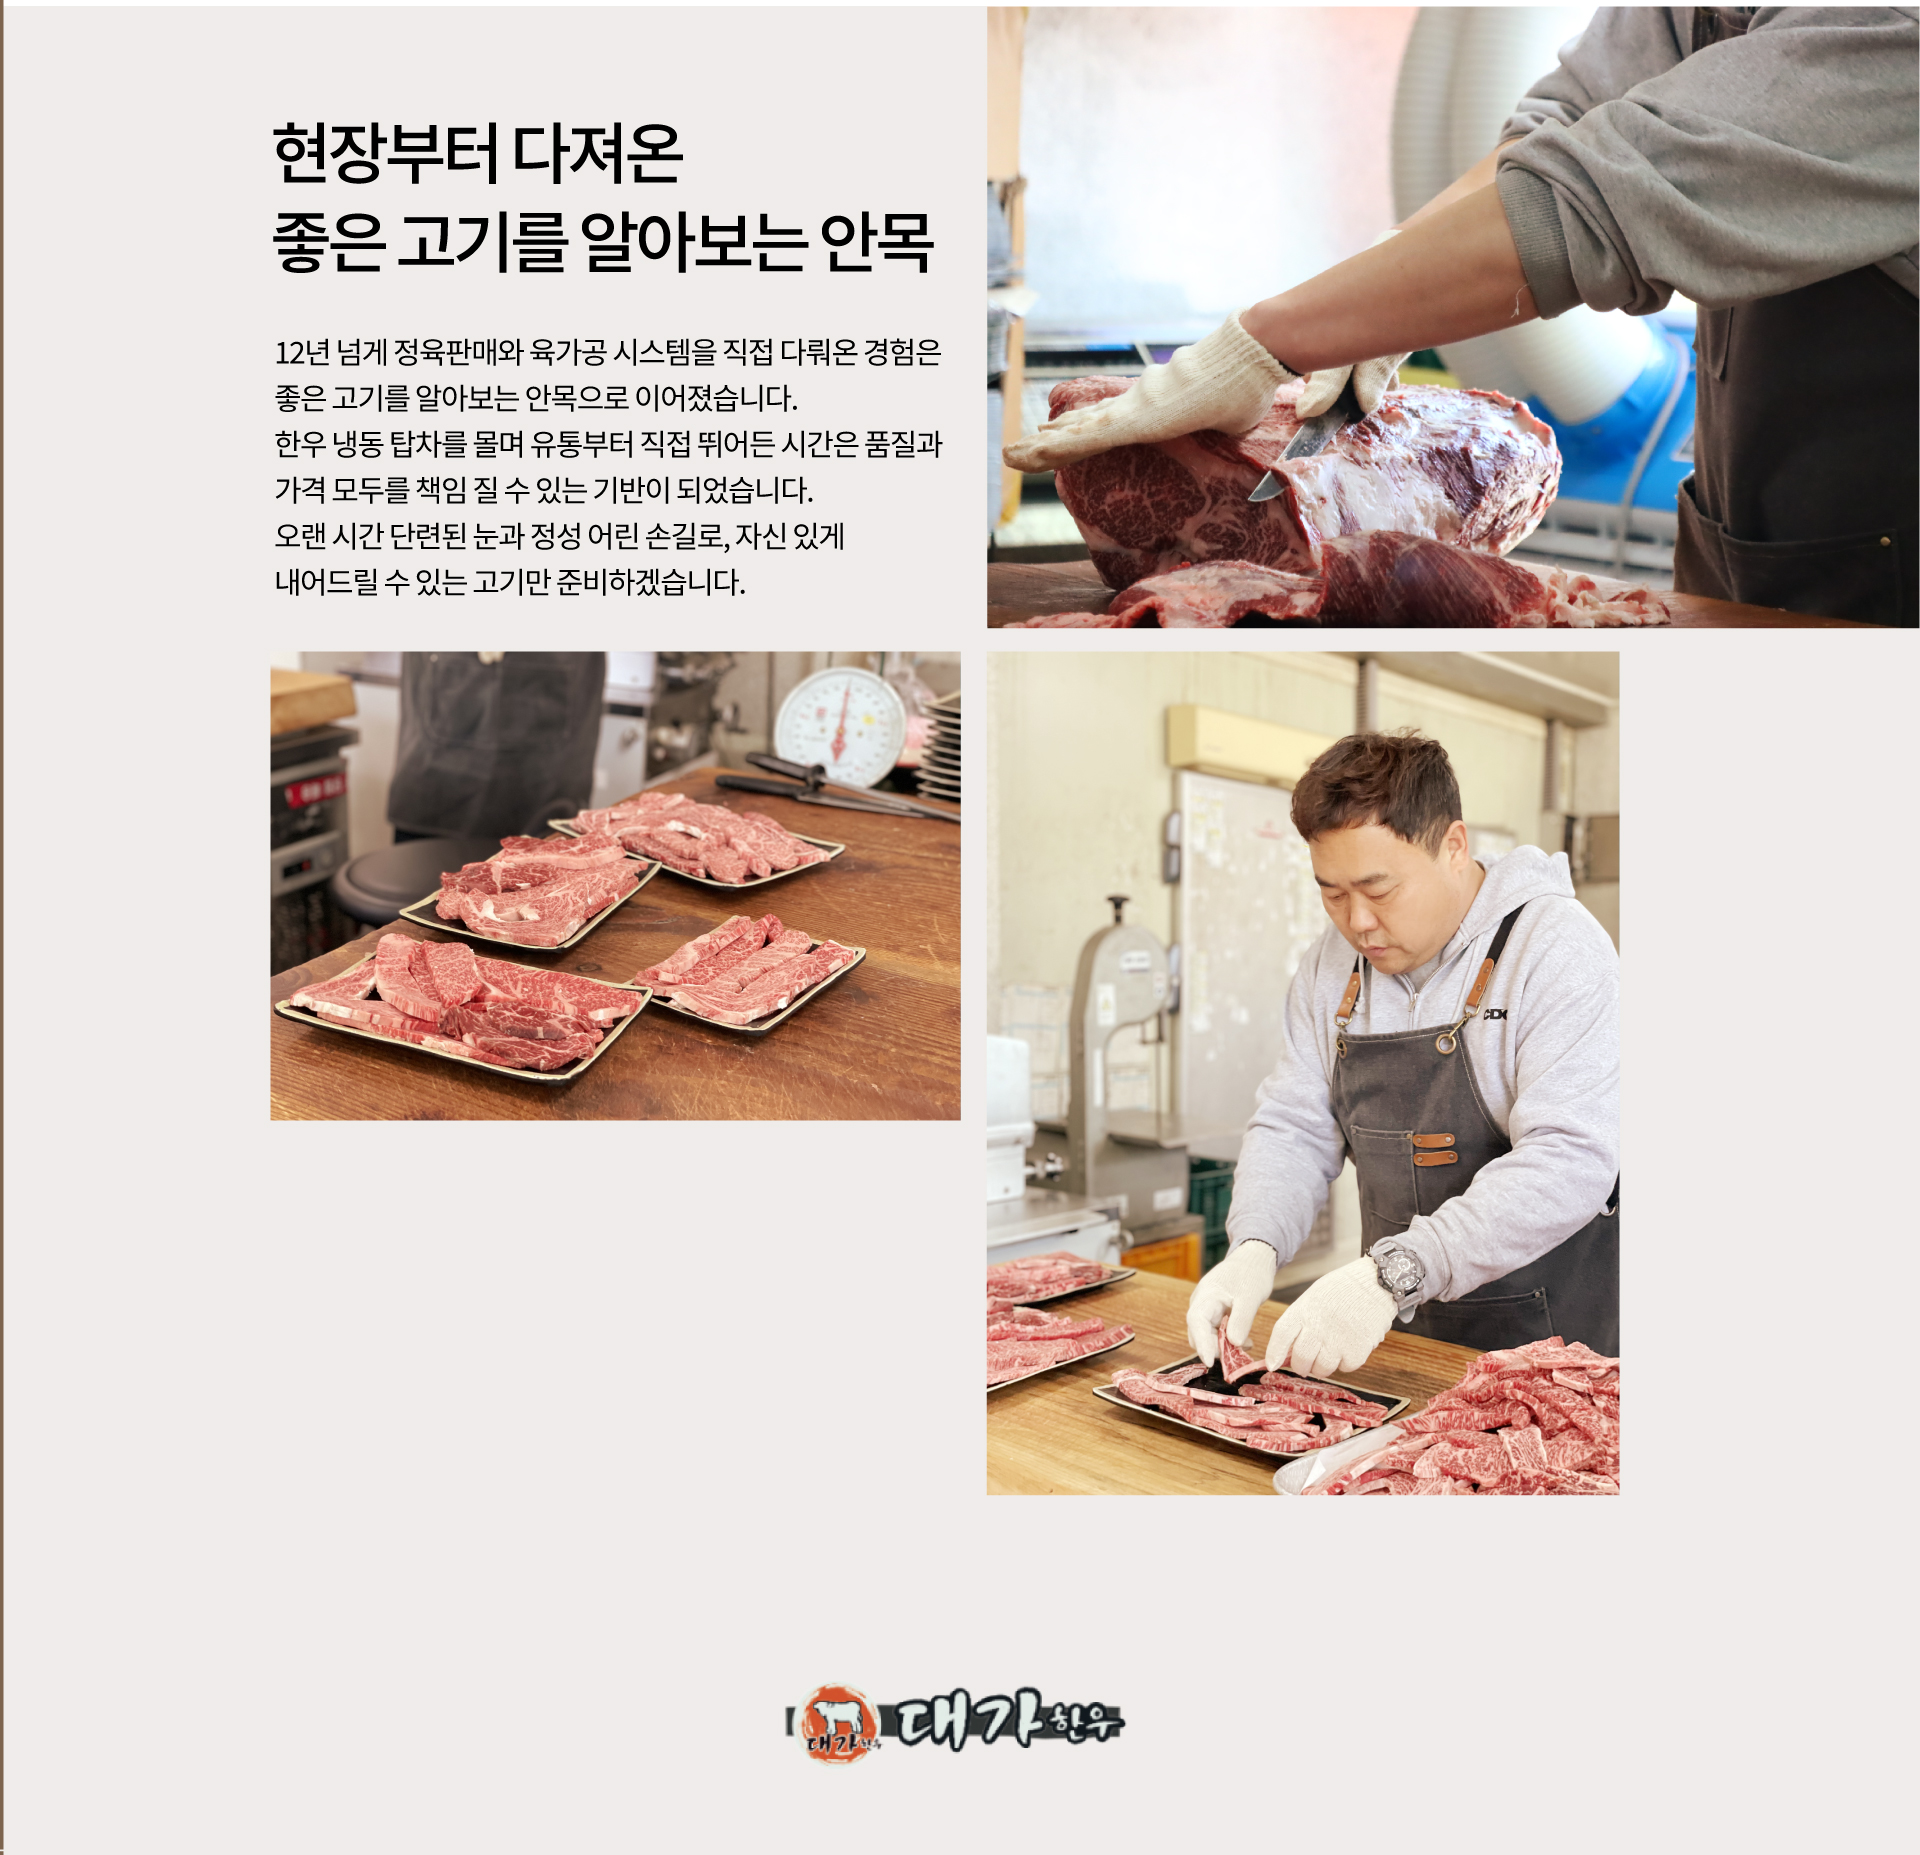
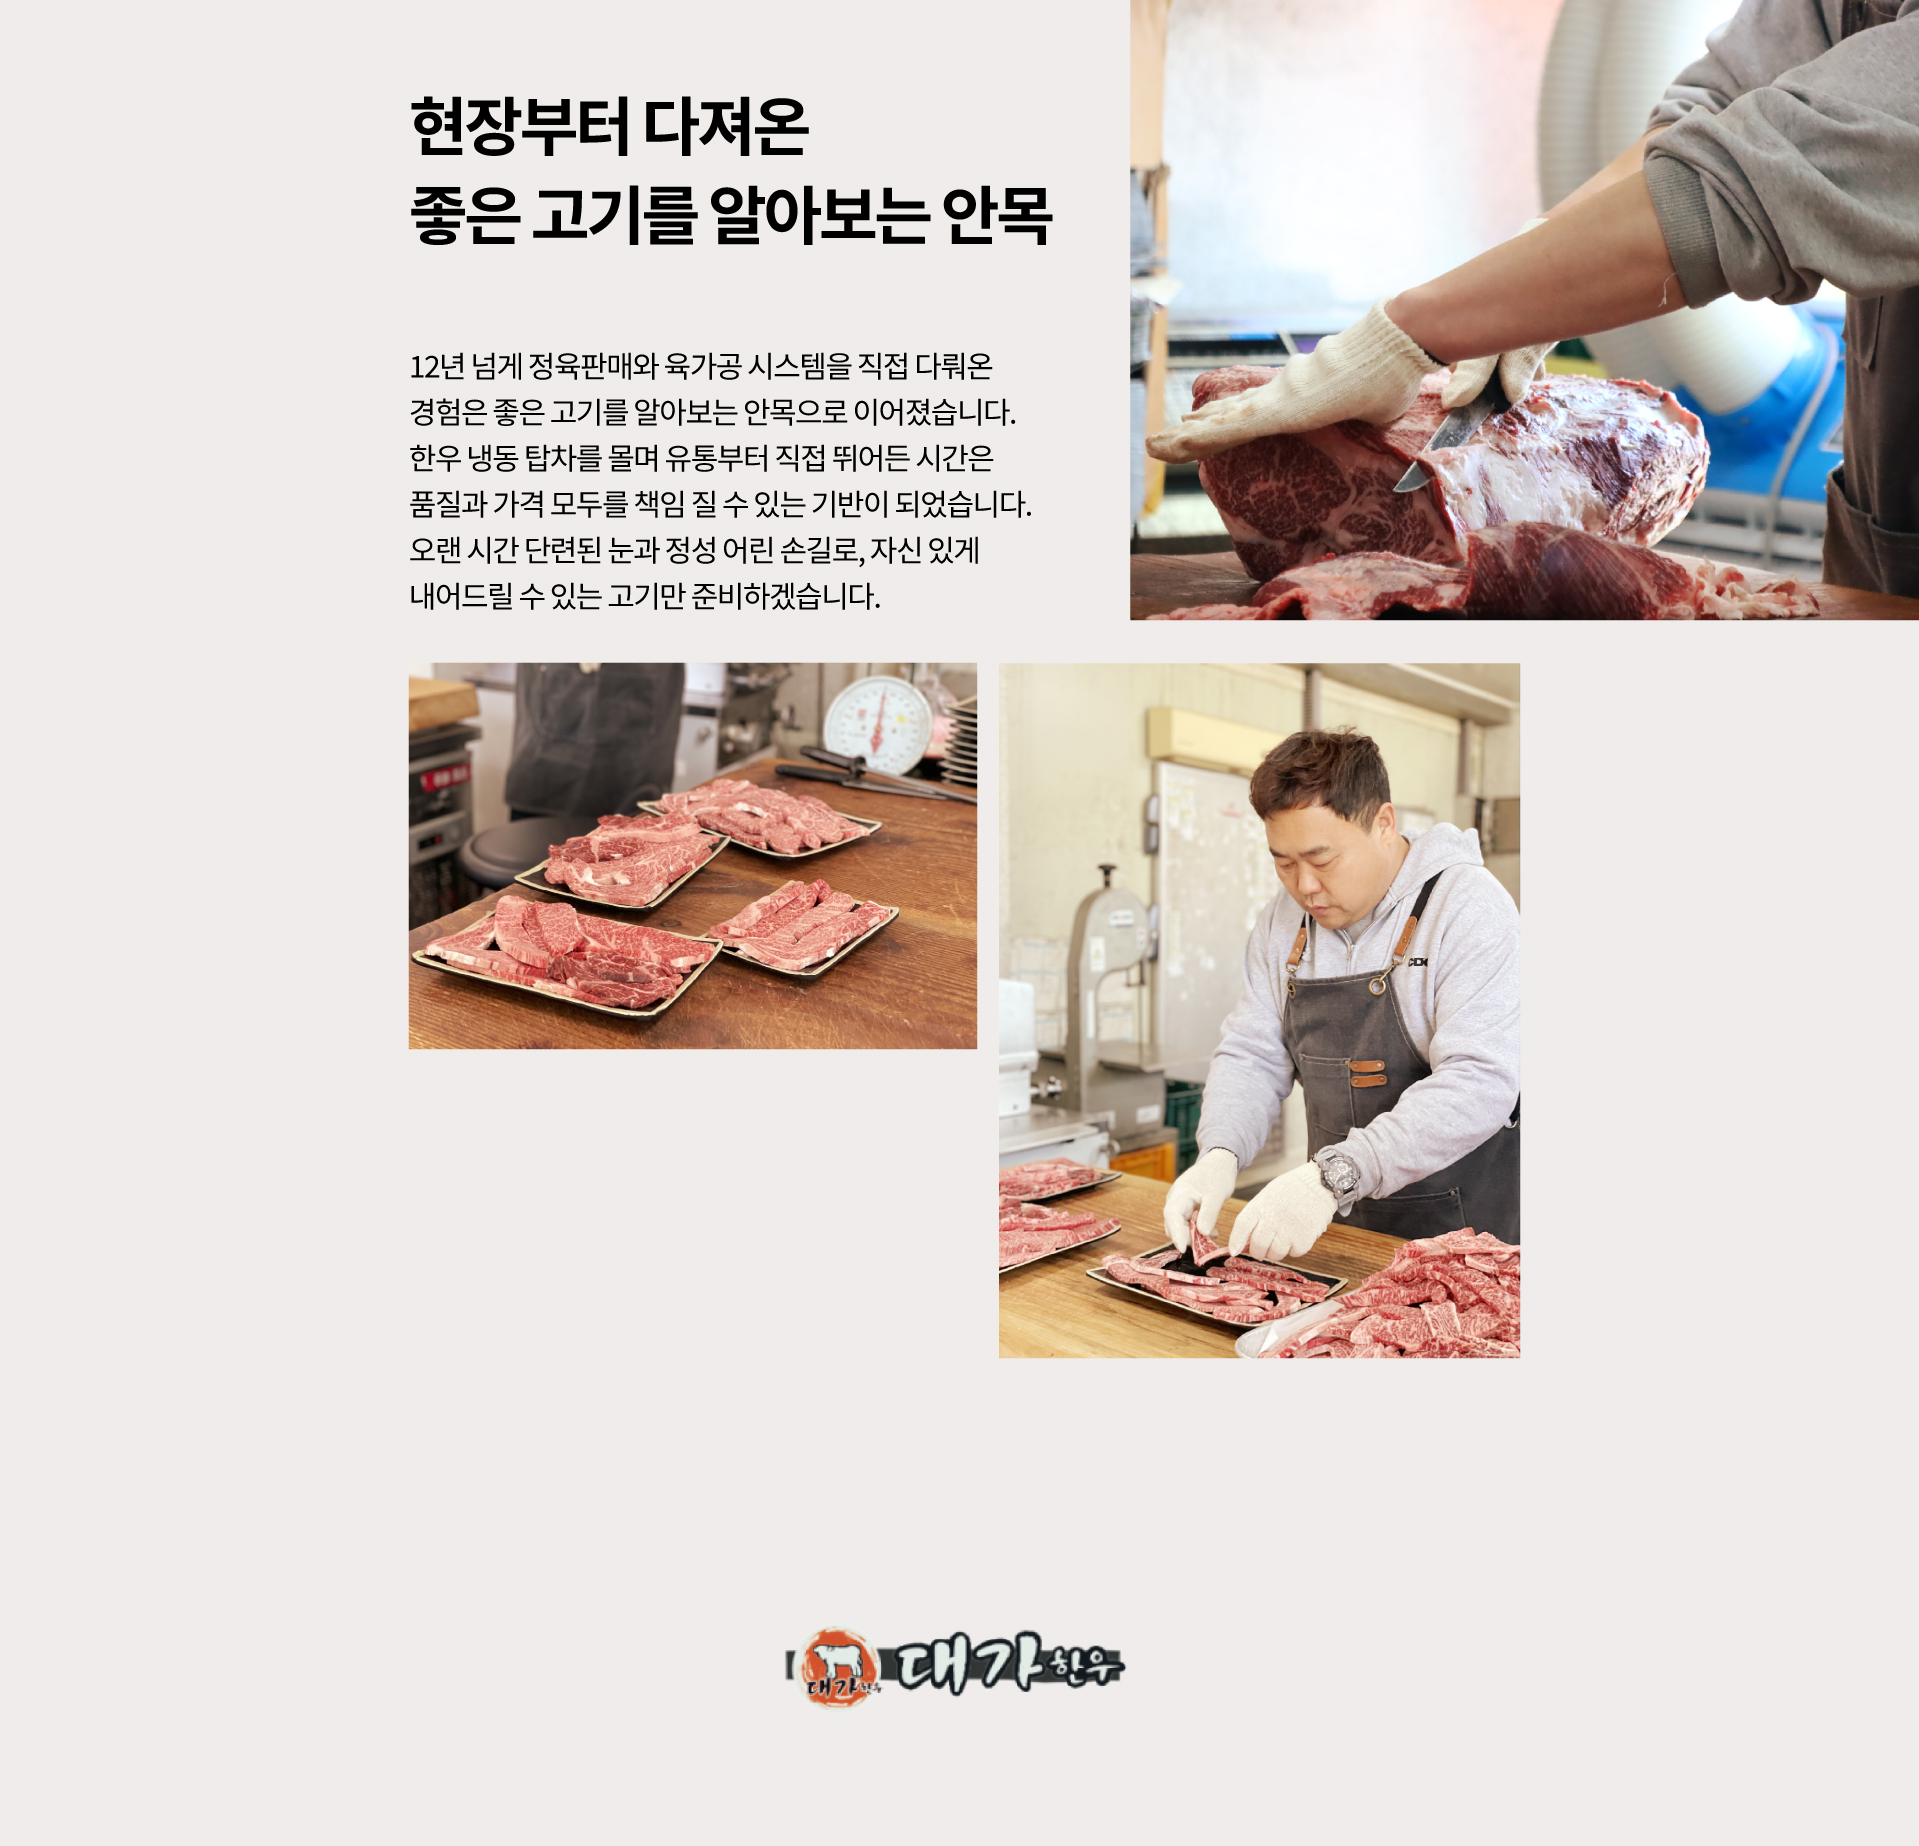
자동 빌드 및 푸시

diff --git a/src/components/store/store_detail.js b/src/components/store/store_detail.js
@@ -150,7 +150,7 @@ export default function StoreDetail() {
                                             ? "/SAMGA-V2/img/icon/단골등록해제.svg"
                                             : "/SAMGA-V2/img/icon/단골등록.svg", alt: isFavorite ? "단골해제" : "단골등록" }), _jsx("span", { children: isFavorite ? "단골해제" : "단골등록" })] }), _jsxs("div", { className: "action-item", children: [_jsx("img", { src: "/SAMGA-V2/img/icon/\uB9AC\uBDF0\uC4F0\uAE30.svg", alt: "\uB9AC\uBDF0\uC4F0\uAE30" }), _jsx("span", { onClick: () => navigate('/write'), children: "\uB9AC\uBDF0\uC4F0\uAE30" })] })] }), _jsxs("div", { className: "facility-section", children: [_jsx("div", { className: "facility-title", children: "\uD3B8\uC758\uC2DC\uC124" }), _jsx("div", { className: "facility-icons", children: (showAllFacilities ? selectedStore.options : selectedStore.options.slice(0, 4)).map(option => (facilityIcons[option] && (_jsxs("div", { className: "facility-icon", children: [_jsx("img", { src: facilityIcons[option], alt: option }), _jsx("p", { children: option })] }, option)))) }), _jsx("div", { className: "button-location", children: selectedStore.options.length > 4 && (_jsx("button", { className: "more-button", onClick: () => setShowAllFacilities(prev => !prev), children: showAllFacilities
                                         ? '간략히 보기 ▲'
-                                        : `+${selectedStore.options.length - 4}개 더보기 ▼` })) })] })] }), _jsxs("div", { className: "store-story-wrapper", children: [_jsx("div", { className: "store-slogan", children: selectedStore.description.split('\n').map((line, i) => (_jsx("div", { children: line }, i))) }), _jsxs("div", { className: "store-name-line", children: [_jsx("span", { className: "store-name-text", children: selectedStore.name }), _jsx("div", { className: "store-name-bar" })] })] }), _jsx("div", { className: "brand-inner", children: _jsxs("div", { className: "store-brand-wrapper", children: [_jsx("img", { src: "/SAMGA-V2/img/logo/videologo.svg", alt: "videologo", className: "video-logo" }), _jsx("div", { className: "brand-text", children: "KOREAN BEEF VILLAGE SAMGA" }), _jsx("hr", { className: "brand-divider" }), !["도원식육식당", "대가한우"].includes(selectedStore.name) && (_jsx("img", { src: selectedStore.logo, alt: "logo", className: "store-sub-logo" }))] }) }), _jsxs("div", { className: "store-detail-images-separated", children: [_jsx("div", { className: "detail-images-pc only-pc", children: selectedStore.detailImagelist
+                                        : `+${selectedStore.options.length - 4}개 더보기 ▼` })) })] })] }), _jsxs("div", { className: `store-story-wrapper ${selectedStore.name === "대가한우" ? "no-bg" : ""}`, children: [_jsx("div", { className: "store-slogan", children: selectedStore.description.split('\n').map((line, i) => (_jsx("div", { children: line }, i))) }), _jsxs("div", { className: "store-name-line", children: [_jsx("span", { className: "store-name-text", children: selectedStore.name }), _jsx("div", { className: "store-name-bar" })] })] }), _jsx("div", { className: "brand-inner", children: _jsxs("div", { className: `store-brand-wrapper ${selectedStore.name === "대가한우" ? "no-bg" : ""}`, children: [_jsx("img", { src: "/SAMGA-V2/img/logo/videologo.svg", alt: "videologo", className: "video-logo" }), _jsx("div", { className: "brand-text", children: "KOREAN BEEF VILLAGE SAMGA" }), _jsx("hr", { className: "brand-divider" }), !["도원식육식당", "대가한우"].includes(selectedStore.name) && (_jsx("img", { src: selectedStore.logo, alt: "logo", className: "store-sub-logo" }))] }) }), _jsxs("div", { className: "store-detail-images-separated", children: [_jsx("div", { className: "detail-images-pc only-pc", children: selectedStore.detailImagelist
                             .filter((src) => /상세페이지_PC_\d+\.(jpg|png)$/i.test(src))
                             .map((src, idx) => (_jsxs("div", { className: "pc-image-wrapper", children: [_jsx("img", { src: src, alt: `PC 상세 이미지 ${idx + 1}`, className: "store-image" }), titles[idx] && (_jsx("div", { className: `pc-image-text-overlay ${titles[idx].className}`, children: titles[idx].text.split("\n").map((line, i) => (_jsx("div", { children: line }, i))) }))] }, `pc-${idx}`))) }), _jsx("div", { className: "detail-images-mobile only-mobile", children: selectedStore.detailImagelist
                             .filter((src) => /상세페이지_M_\d+\.(jpg|png)$/i.test(src))

diff --git a/src/components/store/storeDetail.css b/src/components/store/storeDetail.css
@@ -209,6 +209,9 @@
 
 
 
+.no-bg {
+  background-color: transparent !important;
+}
 
 .store-story-wrapper {
   width: 100%;
@@ -216,6 +219,7 @@
   text-align: start;
   padding: 0 20px;
   background-color: #f3ece9;
+  
 }
 
 .store-slogan {
@@ -355,21 +359,23 @@
 /* ✅ 각 텍스트 위치 및 스타일 개별 설정 */
 .deaga1-1 {
   top: 5%;
-  right: 36%;
+  right: 37%;
   font-size: clamp(28px, 4vw, 60px);
   font-weight: bold;
   text-align: left;
+  letter-spacing: -2px;
 
 }
 
 .deaga1-2 {
   top: 10%;
-  left: 16.5%;
+  left: 15.9%;
   transform: translateX(0);
   font-size: clamp(28px, 4vw, 60px);
   font-weight: 700;
   text-align: start;
   line-height: 1.2;
+  letter-spacing: -2px;
 }
 
 /* .deaga1-2 div:last-child {
@@ -378,20 +384,22 @@
 
 .deaga1-3 {
   top: 6.5%;
-  right: 29.5%;
+  right: 30.5%;
   font-size: clamp(28px, 4vw, 60px);
   font-weight: 700;
   text-align: start;
   line-height: 1.2;
+  letter-spacing: -2px;
 }
 
 
 .dowon1 {
   top: 55%;
-  right: 31%;
+  right: 32%;
   font-size: clamp(28px, 4vw, 60px);
   font-weight: bold;
   text-align: left;
+  letter-spacing: -2px;
 
 }
 
@@ -403,6 +411,8 @@
   font-weight: 700;
   text-align: start;
   line-height: 1.2;
+  letter-spacing: -2px;
+
 }
 
 
@@ -413,37 +423,42 @@
   font-weight: 700;
   text-align: start;
   line-height: 1.2;
+  letter-spacing: -2px;
+
 }
 
 
 
 .deagaH1 {
-  top: 57%;
-  right: 18.5%;
+  top: 62%;
+  right: 22%;
   font-size: clamp(28px, 4vw, 60px);
   font-weight: bold;
   text-align: left;
+  letter-spacing: -2px;
 
 }
 
 .deagaH2 {
-  top: 8%;
-  left: 14%;
+  top: 6%;
+  left: 21%;
   transform: translateX(0);
   font-size: clamp(28px, 4vw, 60px);
   font-weight: 700;
   text-align: start;
   line-height: 1.2;
+  letter-spacing: -2px;
 }
 
 
 .deagaH3 {
-  top: 15%;
-  right: 20%;
+  top: 11%;
+  right: 21.5%;
   font-size: clamp(28px, 4vw, 60px);
   font-weight: 700;
   text-align: start;
   line-height: 1.2;
+  letter-spacing: -2px;
 }
 
 

diff --git a/src/components/store/store_detail.tsx b/src/components/store/store_detail.tsx
@@ -281,7 +281,7 @@ export default function StoreDetail() {
             </div>
 
             {/* 👇 가게 소개 스토리 */}
-            <div className="store-story-wrapper">
+            <div className={`store-story-wrapper ${selectedStore.name === "대가한우" ? "no-bg" : ""}`}>
 
                 <div className="store-slogan">
                     {selectedStore.description.split('\n').map((line, i) => (
@@ -300,7 +300,7 @@ export default function StoreDetail() {
             <div className="brand-inner">
 
                 {/* 👇 브랜드 로고 + 서브로고 */}
-                <div className="store-brand-wrapper">
+                <div className={`store-brand-wrapper ${selectedStore.name === "대가한우" ? "no-bg" : ""}`}>
                     <img src="/SAMGA-V2/img/logo/videologo.svg" alt="videologo" className="video-logo" />
                     <div className="brand-text">KOREAN BEEF VILLAGE SAMGA</div>
                     <hr className="brand-divider" />
